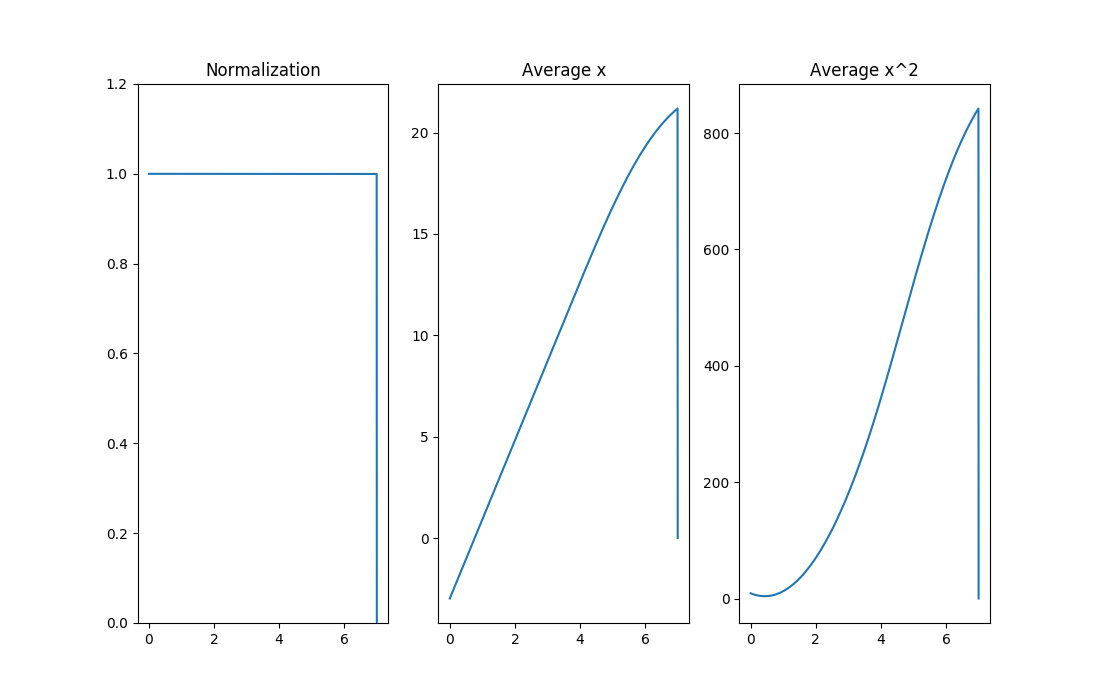
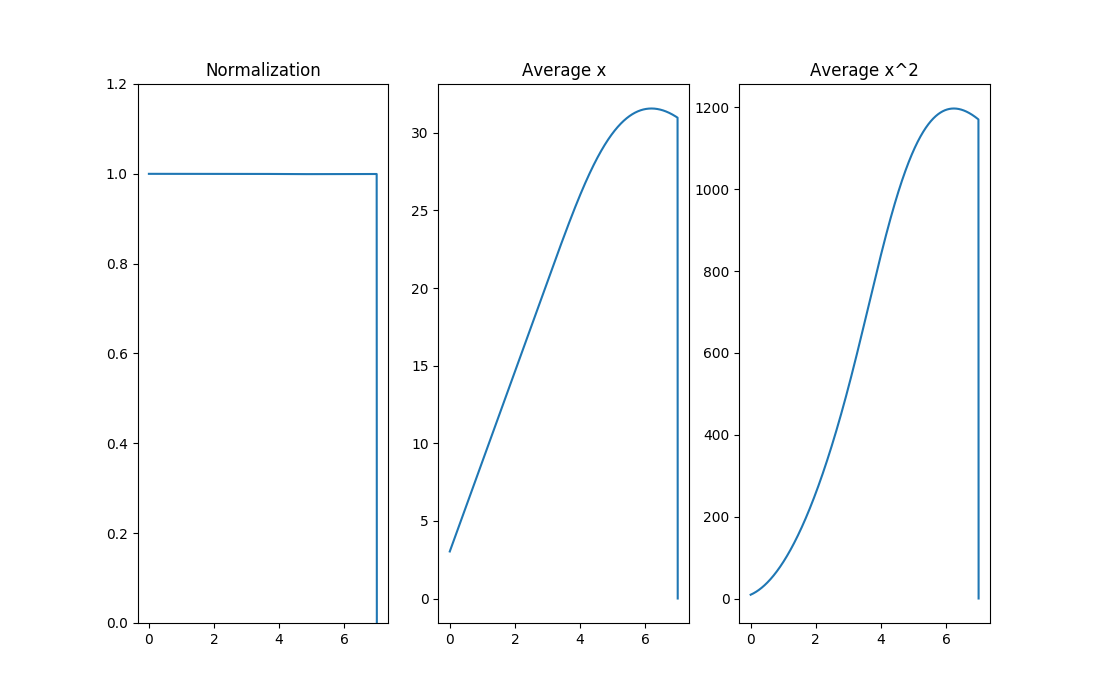
updated velocity graph

diff --git a/1DTDSE.py b/1DTDSE.py
@@ -4,6 +4,7 @@ import scipy.sparse.linalg
 from scipy.integrate import trapz
 import matplotlib.pyplot as plt
 from matplotlib.ticker import FormatStrFormatter
+import random
 
 class Schrodinger(object):
 
@@ -15,6 +16,23 @@ class Schrodinger(object):
         self.normalization = np.zeros(self.T)
         self.averageX = np.zeros(self.T)
         self.averageX2 = np.zeros(self.T)
+
+    def velocity(self):
+        if not self.n:
+            self.n = len(self.t) - 1
+        n1 = random.randint(0, self.n)
+        n2 = random.randint(0, self.n)
+        while self.t[n1] >= 5.0 and self.t[n2] >= 5.0:
+            n1 = random.randint(0, self.n)
+            n2 = random.randint(0, self.n)
+            while n2 == n1:
+                n2 = random.randint(0, self.n)
+        v = (self.averageX[n1] - self.averageX[n2]) / (self.t[n1] - self.t[n2])
+        plt.plot(self.t, self.averageX, label='Average X')
+        plt.plot(self.t, v * self.t + self.xa, label='Calculated V')
+        plt.plot(self.t, abs(v * self.t + self.xa - self.averageX), label='Difference')
+        plt.legend(loc='upper left')
+        plt.show()
 
     def plot_graphs(self):
         fig, ax = plt.subplots(1, 3, figsize=(11, 7))
@@ -173,12 +191,12 @@ class Potential:
 args = {'nx': 1000, 
         'x0': -50, 
         'xf': 50, 
-        'xa': -3, 
+        'xa': 3, 
         't0': 0, 
         'tf': 7.0,
         'dt': 0.005, 
         'a': 0.4, 
-        'k0x': 2,
+        'k0x': 3,
         'mass': 0.5,
         'hbar': 1,
         'potential': '',
@@ -190,5 +208,6 @@ args = {'nx': 1000,
 if __name__ == '__main__':
     schrodinger = Schrodinger(**args)
     psi = schrodinger.solve(threshold=0.0005)
-    schrodinger.play_video(psi)
+    #schrodinger.play_video(psi)
     schrodinger.plot_graphs()
+    print(schrodinger.velocity())
